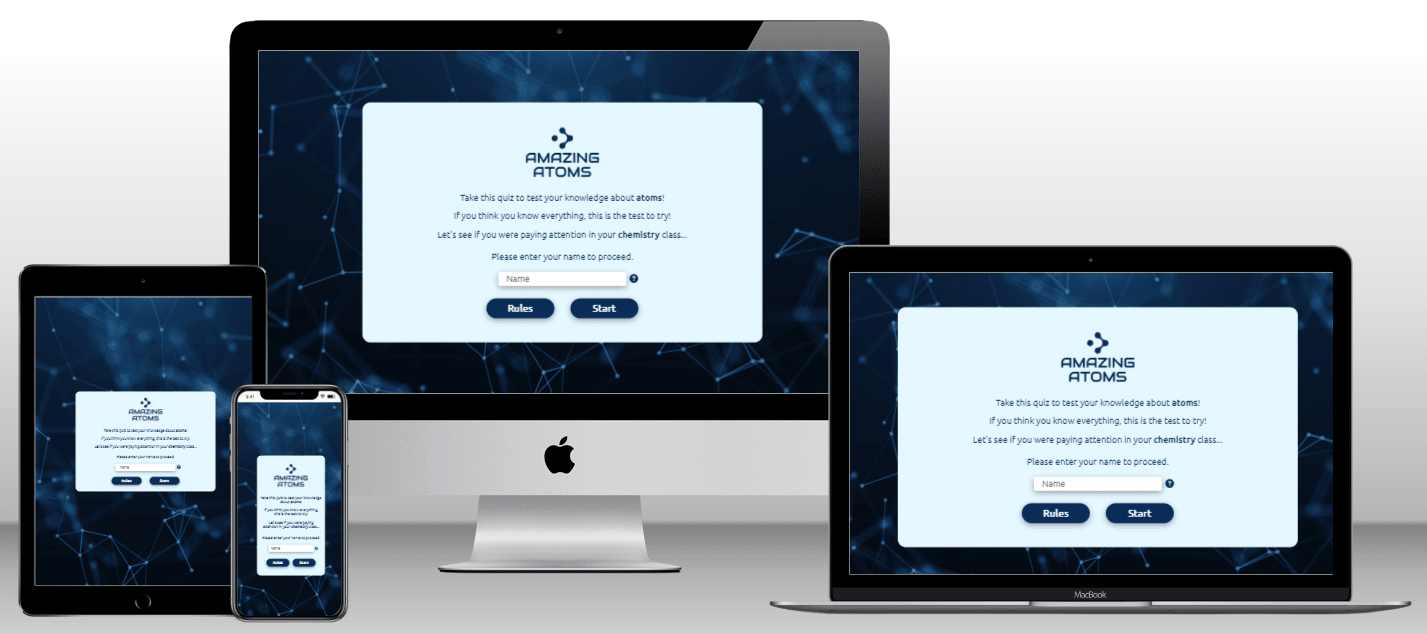
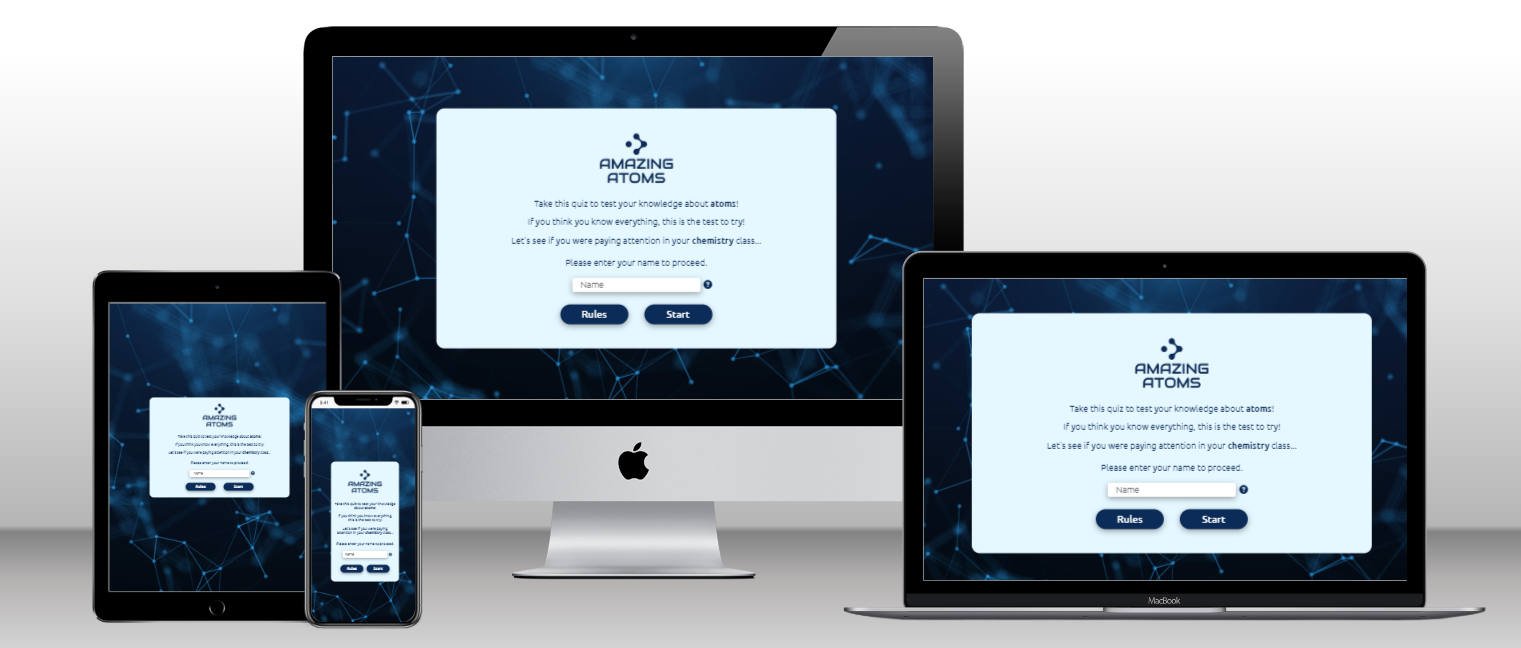
Add mockup screen image and add user stories and website structure sections in README.md

Changed region(s): [[0.0, 0.03, 1.0, 0.989]]

diff --git a/README.md b/README.md
@@ -2,6 +2,8 @@
 
 Welcome to Amazing Atoms! Amazing Atoms is an interactive quiz game where users can test and improve their knowledge about atoms. There are four possible answers for each question and once the user selects an answer, the correct answer is shown and explained for each question, so they can learn about atoms as they play! 
 
+<img src="docs/mockup-screen-image.png">
+
 ## Live Website
 [Amazing Atoms](https://shizukadonaghue.github.io/atomic-quiz/)
 
@@ -14,16 +16,22 @@ Amazing Atoms has been designed to help users test and improve their knowledge a
 
 ### User Stories
 As a user,
-* I would like to test my knowledge about atoms
-* I would like to improve my knowledge about atoms
-* I would like a clean and uncluttered interface that is easy to navigate
-
-
-
-
-### Wire Frames
+* I would like to test and improve my knowledge about atoms
+* I would like a clean and uncluttered website that is intuitive and easy to navigate
+* I would like to be able to play the game on any devices
+* I would like to understand how to play the game
+* I would like clear visual feedback when I submit my answer so that I know whether my answer is correct
+* I would like to know how well I did in the game when finished
 
 ### Website Structure
+The website consists of two HTML pages. The main page contains all the contents related to the game and the second page is only used in case of 404 error. 
+
+The contents for the game are on a single HTML page and JavaScript scrits in script.js are used to hide and unhide sections of the main page based on the intractions with the user. For example, the landing page is the start section of the main page and when the user clicks on the start button to play the game, the start section is hidden and the game section is displayed. Once the game is initiated, a series of randomised questions is displayed which are stored in questions.js file. 
+
+### Wire Frames
+Wireframes were generated using [balsamiq](https://balsamiq.com/) to visualise the structure of the website. 
+
+
 
 ### Colour Scheme
 
